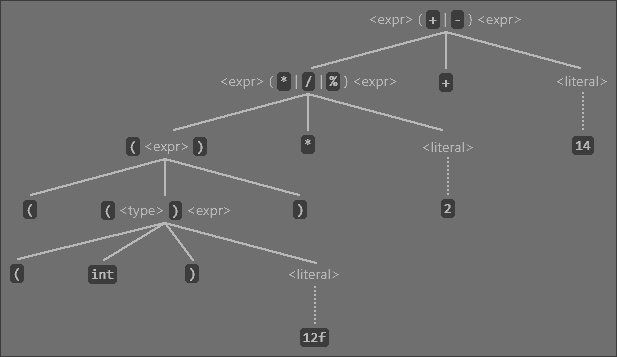
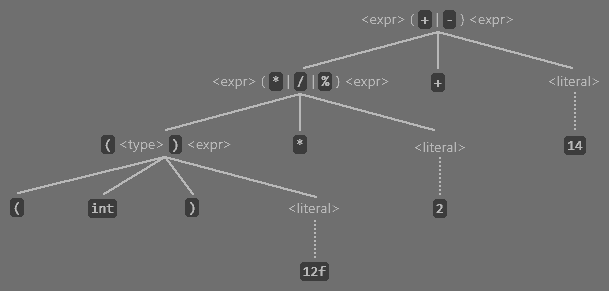
Improved expression precedence example

diff --git a/docs/ls-4-expr.md b/docs/ls-4-expr.md
@@ -72,17 +72,17 @@ Expressions are matched in this order by the following production rule from the 
 > 
 > Definitions for production rules with occurrences in &lt;expr&gt; may be provided in later sections of the chapter.
 
-**Example:**
-
-Consider the following expression:
-
-```cpp
-((int) 12f) * 2 + 14
-```
-
-This is the [parse tree![](../assets/external.png)](https://en.wikipedia.org/wiki/Parse_tree) for the expression according to the precedence order of the productions of &lt;expr&gt;:
-
-![](../assets/expression-parse-tree.png)
+> **Example:**
+> 
+> Consider the following expression:
+> 
+> ```cpp
+> (int) 12f * 2 + 14
+> ```
+> 
+> This is the [parse tree![](../assets/external.png)](https://en.wikipedia.org/wiki/Parse_tree) for the expression according to the [precedence![](../assets/external.png)](https://en.wikipedia.org/wiki/Order_of_operations) order of the productions of &lt;expr&gt;:
+> 
+> ![](../assets/expression-parse-tree.png)
 
 ## 4.2 – Nested expressions
 
